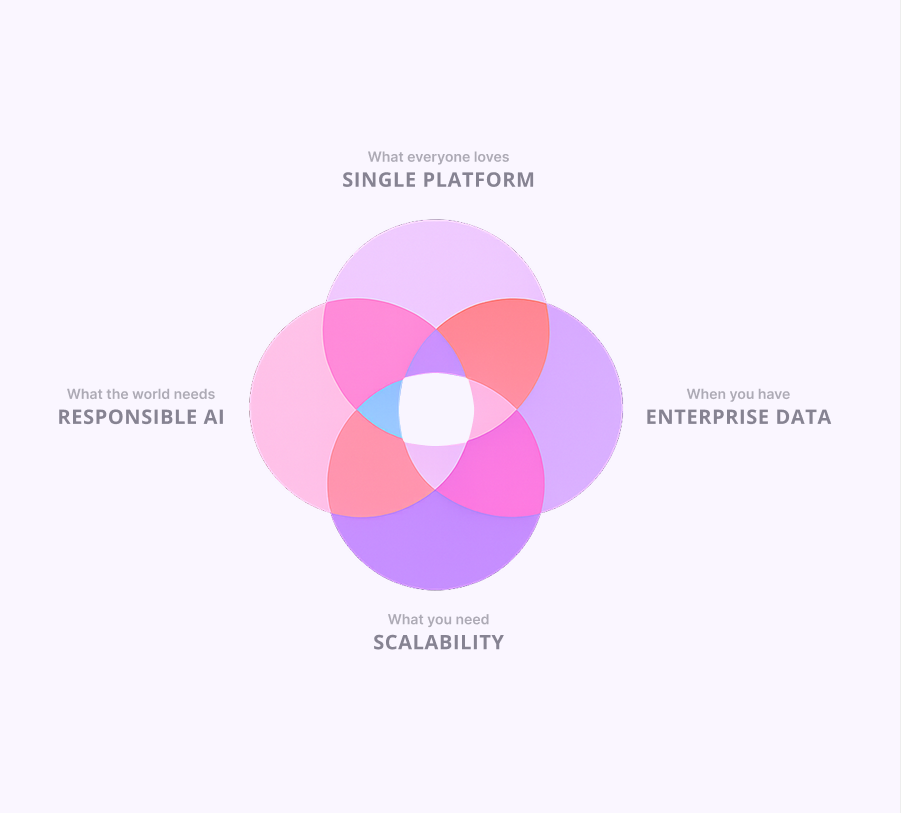
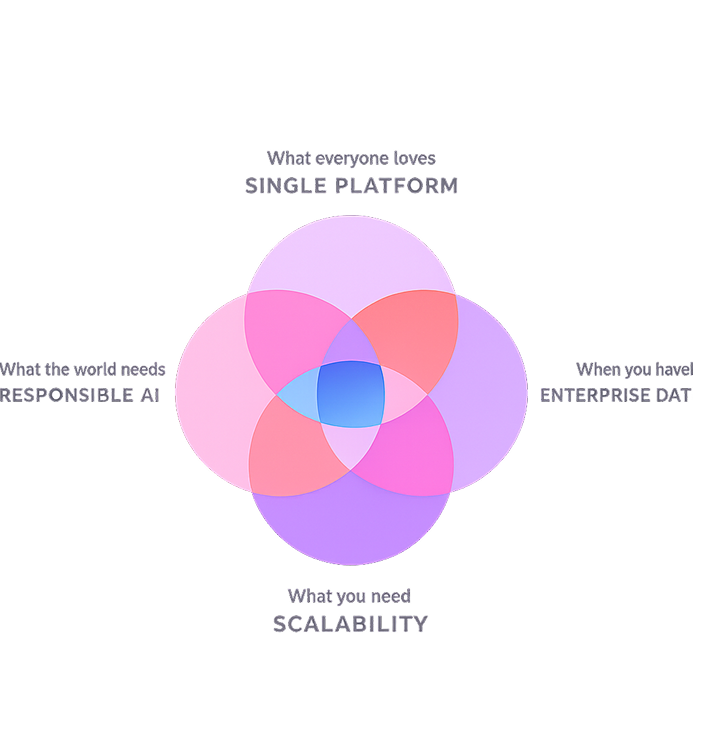
Developed frontend required for the Login Page.

Changed region(s): [[0.0, 0.1833, 0.9886, 0.8552]]

diff --git a/components/LoginPage.tsx b/components/LoginPage.tsx
@@ -1,73 +1,60 @@
-"use client"; 
+"use client";
 
 import React from 'react';
+import '../styles/css/LoginPage.css';
 
 const LoginPage = () => {
-  const handleSubmit = (e: { preventDefault: () => void; }) => {
+  const handleSubmit = (e: React.FormEvent) => {
     e.preventDefault();
     console.log("Form submitted!");
   };
 
   return (
-    
-    <div className="flex min-h-screen w-full font-sans text-gray-800">
+    <div className="login-container">
       {/* LEFT SECTION: Visual/Branding */}
-      <div>
-       <img src="/ikegai.png" alt='IKEGAI logo'/>
+      <div className="visual-section">
+        <div className="visual-wrapper">
+          <img 
+            src="/logo.png" 
+            alt="Agentic AI Diagram" 
+            className="diagram-image" 
+          />
+        </div>
       </div>
 
       {/* RIGHT SECTION: Login Form */}
-      <div className="w-full lg:w-2/5 bg-white flex flex-col p-8 md:p-16 lg:p-24 relative">
-        {/* KPMG Logo Placeholder */}
-        <div className="absolute top-8 right-12">
-          <div className="text-blue-900 font-black italic text-2xl tracking-tighter">
-            KPMG<span className="text-blue-500"></span>
-          </div>
+      <div className="form-section">
+        {/* KPMG Logo */}
+        <div className="logo-header">
+          <img src="/kpmg_logo.png" alt="KPMG Logo" className="brand-logo" />
         </div>
 
-        <div className="my-auto max-w-md w-full mx-auto">
-          <header className="mb-8">
-            <p className="font-bold text-gray-800">KPMG India</p>
-            <h1 className="text-4xl font-semibold text-[#5356BD] mt-1">Agentic AI Platform</h1>
+        <div className="form-content">
+          <header className="form-title-group">
+            <p className="brand-subtext">KPMG India</p>
+            <h1 className="platform-title">Agentic AI Platform</h1>
           </header>
 
-          <form className="space-y-6" onSubmit={handleSubmit}>
-            {/* Username Field */}
-            <div>
-              <label className="block text-gray-600 text-sm mb-2">Username</label>
-              <input 
-                type="text" 
-                className="w-full border border-gray-300 rounded-lg px-4 py-3 focus:outline-none focus:ring-2 focus:ring-indigo-200 transition-all"
-              />
-              <div className="text-right mt-1">
-                <button type="button" className="text-xs text-gray-500 hover:underline">Forgot username?</button>
-              </div>
+          <form onSubmit={handleSubmit} className="login-form">
+            <div className="input-group">
+              <label>Username</label>
+              <input type="text" placeholder="Enter username" />
+              <button type="button" className="forgot-link">Forgot username?</button>
             </div>
 
-            {/* Password Field */}
-            <div>
-              <label className="block text-gray-600 text-sm mb-2">Password</label>
-              <input 
-                type="password" 
-                className="w-full border border-gray-300 rounded-lg px-4 py-3 focus:outline-none focus:ring-2 focus:ring-indigo-200 transition-all"
-              />
-              <div className="text-right mt-1">
-                <button type="button" className="text-xs text-gray-500 hover:underline">Forgot password?</button>
-              </div>
+            <div className="input-group">
+              <label>Password</label>
+              <input type="password" placeholder="Enter password" />
+              <button type="button" className="forgot-link">Forgot password?</button>
             </div>
 
-            {/* Login Button */}
-            <button 
-              type="submit" 
-              className="w-full bg-[#6265D2] hover:bg-[#5356BD] text-white font-semibold py-3 rounded-lg shadow-lg shadow-indigo-100 transition-all active:scale-[0.98]"
-            >
+            <button type="submit" className="login-submit-btn">
               Login
             </button>
           </form>
 
-          {/* Footer Text */}
-          <footer className="mt-12">
-            <p className="text-[10px] text-gray-400 leading-relaxed uppercase tracking-wider">
+          <footer className="legal-footer">
+            <p>
               The Gen AI application is for the use of authorized users only. Individuals 
               using this application without authority, or in excess of their authority 
               may result in legal action. Copyright @KPMG

diff --git a/styles/css/LoginPage.css b/styles/css/LoginPage.css
@@ -1,0 +1,156 @@
+/* Core Layout */
+.login-container {
+  display: flex;
+  width: 100vw;
+  height: 100vh; /* Forces the container to be exactly the screen height */
+  overflow: hidden; /* Prevents scrollbars */
+  margin: 0;
+  padding: 0;
+}
+
+/* LEFT SECTION: Visual/Image */
+.visual-section {
+  flex: 3; /* Takes 60% of width (3 out of 5 parts) */
+  height: 100%;
+  background-color: #FAF6FF;
+  display: flex;
+  align-items: center;
+  justify-content: center;
+}
+
+.diagram-image {
+  width: 100%;
+  height: 100%;
+  /* 'contain' keeps the whole image visible. 
+     Change to 'cover' if you want it to bleed to the edges. */
+  object-fit: contain; 
+  display: block;
+}
+
+/* RIGHT SECTION: Login Form */
+.form-section {
+  flex: 2; /* Takes 40% of width (2 out of 5 parts) */
+  height: 100%;
+  background-color: #ffffff;
+  display: flex;
+  flex-direction: column;
+  padding: 4rem 3rem;
+  position: relative;
+  overflow-y: auto; /* Allows form to scroll if screen is very short */
+}
+
+/* Logo Positioning */
+.logo-header {
+  position: absolute;
+  top: 30px;
+  right: 40px;
+}
+
+.brand-logo {
+  height: 32px;
+  width: auto;
+}
+
+/* Form Styling */
+.form-content {
+  margin: auto; /* Centers the form vertically in the 2/5 space */
+  width: 100%;
+  max-width: 400px;
+}
+
+.brand-subtext {
+  font-weight: 700;
+  font-size: 1rem;
+  margin-bottom: 0.25rem;
+}
+
+.platform-title {
+  color: #5356bd;
+  font-size: 2.2rem;
+  font-weight: 600;
+  margin-top: 0;
+  margin-bottom: 2.5rem;
+  line-height: 1.1;
+}
+
+/* Input Fields */
+.input-group {
+  margin-bottom: 1.5rem;
+}
+
+.input-group label {
+  display: block;
+  font-size: 0.9rem;
+  font-weight: 500;
+  color: #4b5563;
+  margin-bottom: 0.5rem;
+}
+
+.input-group input {
+  width: 100%;
+  padding: 0.8rem 1rem;
+  border: 1px solid #d1d5db;
+  border-radius: 8px;
+  font-size: 1rem;
+  transition: border-color 0.2s;
+}
+
+.input-group input:focus {
+  outline: none;
+  border-color: #6265d2;
+  box-shadow: 0 0 0 3px rgba(98, 101, 210, 0.1);
+}
+
+.forgot-link {
+  background: none;
+  border: none;
+  color: #9ca3af;
+  font-size: 0.75rem;
+  float: right;
+  margin-top: 0.4rem;
+  cursor: pointer;
+}
+
+/* Login Button */
+.login-submit-btn {
+  width: 100%;
+  background-color: #6265d2;
+  color: white;
+  padding: 0.9rem;
+  border-radius: 8px;
+  font-weight: 600;
+  font-size: 1rem;
+  border: none;
+  cursor: pointer;
+  margin-top: 1.5rem;
+  box-shadow: 0 4px 6px -1px rgba(0, 0, 0, 0.1);
+}
+
+.login-submit-btn:hover {
+  background-color: #5356bd;
+}
+
+/* Legal Footer */
+.legal-footer {
+  margin-top: 4rem;
+  font-size: 0.65rem;
+  color: #9ca3af;
+  line-height: 1.5;
+  text-transform: uppercase;
+  letter-spacing: 0.05em;
+}
+
+/* Responsive: Stack vertically on mobile */
+@media (max-width: 1024px) {
+  .login-container {
+    flex-direction: column;
+    height: auto;
+    overflow: visible;
+  }
+  .visual-section {
+    height: 40vh; /* Image takes top 40% of screen on mobile */
+  }
+  .form-section {
+    padding: 3rem 1.5rem;
+  }
+}

diff --git a/app/solution/layout.tsx b/app/solution/layout.tsx
@@ -1,19 +1,17 @@
 import type { Metadata } from "next";
-import { Geist, Geist_Mono } from "next/font/google";
-import NavBar from "@/components/navbar";
-import SideBar from "@/components/sidebar";
-import "./../globals.css";
+import { Roboto, Inter } from 'next/font/google';
+import './../globals.css';
 
-const geistSans = Geist({
-  variable: "--font-geist-sans",
-  subsets: ["latin"],
+const roboto = Roboto({
+  weight: ['400', '500', '700'],
+  subsets: ['latin'],
+  variable: '--font-roboto', // Creates a CSS variable
 });
 
-const geistMono = Geist_Mono({
-  variable: "--font-geist-mono",
-  subsets: ["latin"],
+const inter = Inter({
+  subsets: ['latin'],
+  variable: '--font-inter',
 });
-
 export const metadata: Metadata = {
   title: "Create Next App",
   description: "Generated by create next app",
@@ -27,27 +25,14 @@ export default function RootLayout({
   return (
     <html lang="en">
       <body
-        className={`${geistSans.variable} ${geistMono.variable} antialiased`}
+        className={`${roboto.variable} ${roboto.variable} antialiased`}
       >
-        <div className="flex h-screen bg-white font-sans text-slate-800 overflow-hidden">
+        <div className="">
 
-          {/* 1. The Constant Sidebar on the left */}
-          <SideBar />
-
-          {/* The right side container for Navbar + Dynamic Content */}
-          <div className="flex-1 flex flex-col overflow-hidden bg-gray-50">
-
-            {/* 2. The Constant Navbar at the top */}
-            <NavBar />
-
-            {/* 3. The Dynamic Content Area */}
-            {/* overflow-auto ensures only this section scrolls, not the whole page */}
-            <main className="flex-1 overflow-auto p-8">
+    
+            <main className="">
               {children}
             </main>
-
-          </div>
-
         </div>
       </body>
     </html>

diff --git a/app/auth/layout.tsx b/app/auth/layout.tsx
@@ -1,19 +1,17 @@
 import type { Metadata } from "next";
-import { Geist, Geist_Mono } from "next/font/google";
-import NavBar from "@/components/navbar";
-import SideBar from "@/components/sidebar";
-import "./../globals.css";
+import { Roboto, Inter } from 'next/font/google';
+import './../globals.css';
 
-const geistSans = Geist({
-  variable: "--font-geist-sans",
-  subsets: ["latin"],
+const roboto = Roboto({
+  weight: ['400', '500', '700'],
+  subsets: ['latin'],
+  variable: '--font-roboto', // Creates a CSS variable
 });
 
-const geistMono = Geist_Mono({
-  variable: "--font-geist-mono",
-  subsets: ["latin"],
+const inter = Inter({
+  subsets: ['latin'],
+  variable: '--font-inter',
 });
-
 export const metadata: Metadata = {
   title: "Create Next App",
   description: "Generated by create next app",
@@ -27,7 +25,7 @@ export default function RootLayout({
   return (
     <html lang="en">
       <body
-        className={`${geistSans.variable} ${geistMono.variable} antialiased`}
+        className={`${roboto.variable} ${roboto.variable} antialiased`}
       >
         <div className="">
 

diff --git a/app/layout.tsx b/app/layout.tsx
@@ -1,19 +1,17 @@
 import type { Metadata } from "next";
-import { Geist, Geist_Mono } from "next/font/google";
-import NavBar from "@/components/navbar";
-import SideBar from "@/components/sidebar";
-import "./globals.css";
+import { Roboto, Inter } from 'next/font/google';
+import './globals.css';
 
-const geistSans = Geist({
-  variable: "--font-geist-sans",
-  subsets: ["latin"],
+const roboto = Roboto({
+  weight: ['400', '500', '700'],
+  subsets: ['latin'],
+  variable: '--font-roboto', // Creates a CSS variable
 });
 
-const geistMono = Geist_Mono({
-  variable: "--font-geist-mono",
-  subsets: ["latin"],
+const inter = Inter({
+  subsets: ['latin'],
+  variable: '--font-inter',
 });
-
 export const metadata: Metadata = {
   title: "Create Next App",
   description: "Generated by create next app",
@@ -27,7 +25,7 @@ export default function RootLayout({
   return (
     <html lang="en">
       <body
-        className={`${geistSans.variable} ${geistMono.variable} antialiased`}
+        className={`${roboto.variable} ${roboto.variable} antialiased`}
       >
         <div className="">
 
